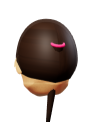
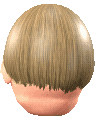
Hoops Jam: Anderson bodies redrawn as arcade sprites (72 px/m, 48-color palette, 1 px outline) with skin and hair matching their photos
The sprite factory now reads the game's own roster (jam/js/data.js) and treats every photo: true player as a photo head.

Claude-Session: https://claude.ai/code/session_01ToiDsSQnaqBjUawR2EXcU4

diff --git a/jam/tools/gen.html b/jam/tools/gen.html
@@ -11,6 +11,7 @@
 <script src="../../hoops/js/body-data.js"></script>
 <script src="../../hoops/js/athlete.js"></script>
 <script src="../../hoops/js/player.js"></script>
+<script src="../js/data.js"></script>   <!-- the game's own roster (skin, hair, looks from the photos) overrides the VR game's -->
 <script>
 var PPM = 72, FW = 138, FH = 188, SS = 3;      // 72 px per meter (the close game camera draws 62-80), frame size, supersampling
 var R = new THREE.WebGLRenderer({ antialias: true, alpha: true, preserveDrawingBuffer: true });
@@ -207,7 +208,7 @@ window.genPlayer = function (id, opt) {
     var fr = indexed(px, FW, FH, pal, 2, opt.dither === undefined ? 14 : opt.dither, 1), ox = (f % cols) * FW, oy = Math.floor(f / cols) * FH;
     for (var y = 0; y < FH; y++) idx.set(fr.subarray(y * FW, y * FW + FW), (oy + y) * AW + ox);
   });
-  meta.cols = cols; meta.count = frames.length;
+  meta.cols = cols; meta.count = frames.length; meta.outline = 1;   // tells the game not to add its own rim
   var r1 = function (a) { return a.map(function (v) { return +v.toFixed(1); }); };
   meta.feet = r1(meta.feet); meta.head = meta.head.map(r1); meta.hand = meta.hand.map(r1);
   return { w: AW, h: AH, pal: [[0, 0, 0, 0], OUTLINE.concat(255)].concat(pal.map(function (c) { return c.concat(255); })), idx: b64(idx), meta: meta };
@@ -326,7 +327,8 @@ function sculpt(A) {
 // head picture framing, in meters at the head: the head fills the width like Alan's photo cut-out; the head bone (the neck
 // point the game pastes it on) sits at 88% of the height so the chin lands near the bottom edge, as on his photo
 var HEAD_W = 0.205, HEAD_ANCHOR = 0.88, HEAD_DIST = 1.0;
-window.PHOTO = { alan: 1 };   // players with a real photo cut-out for the front head (never regenerated)
+window.PHOTO = {};   // players with a real photo cut-out for the front head (faces/<id>_photo.png) - their CG front head is never written
+Object.keys(HW.PLAYERS).forEach(function (id) { if (HW.PLAYERS[id].photo) window.PHOTO[id] = 1; });
 // big digitized heads: front (near-frontal, turned a little like Alan's photo) and back of the head, transparent background
 window.genHead = function (id, back, opt) {
   opt = opt || {}; lights('head');
